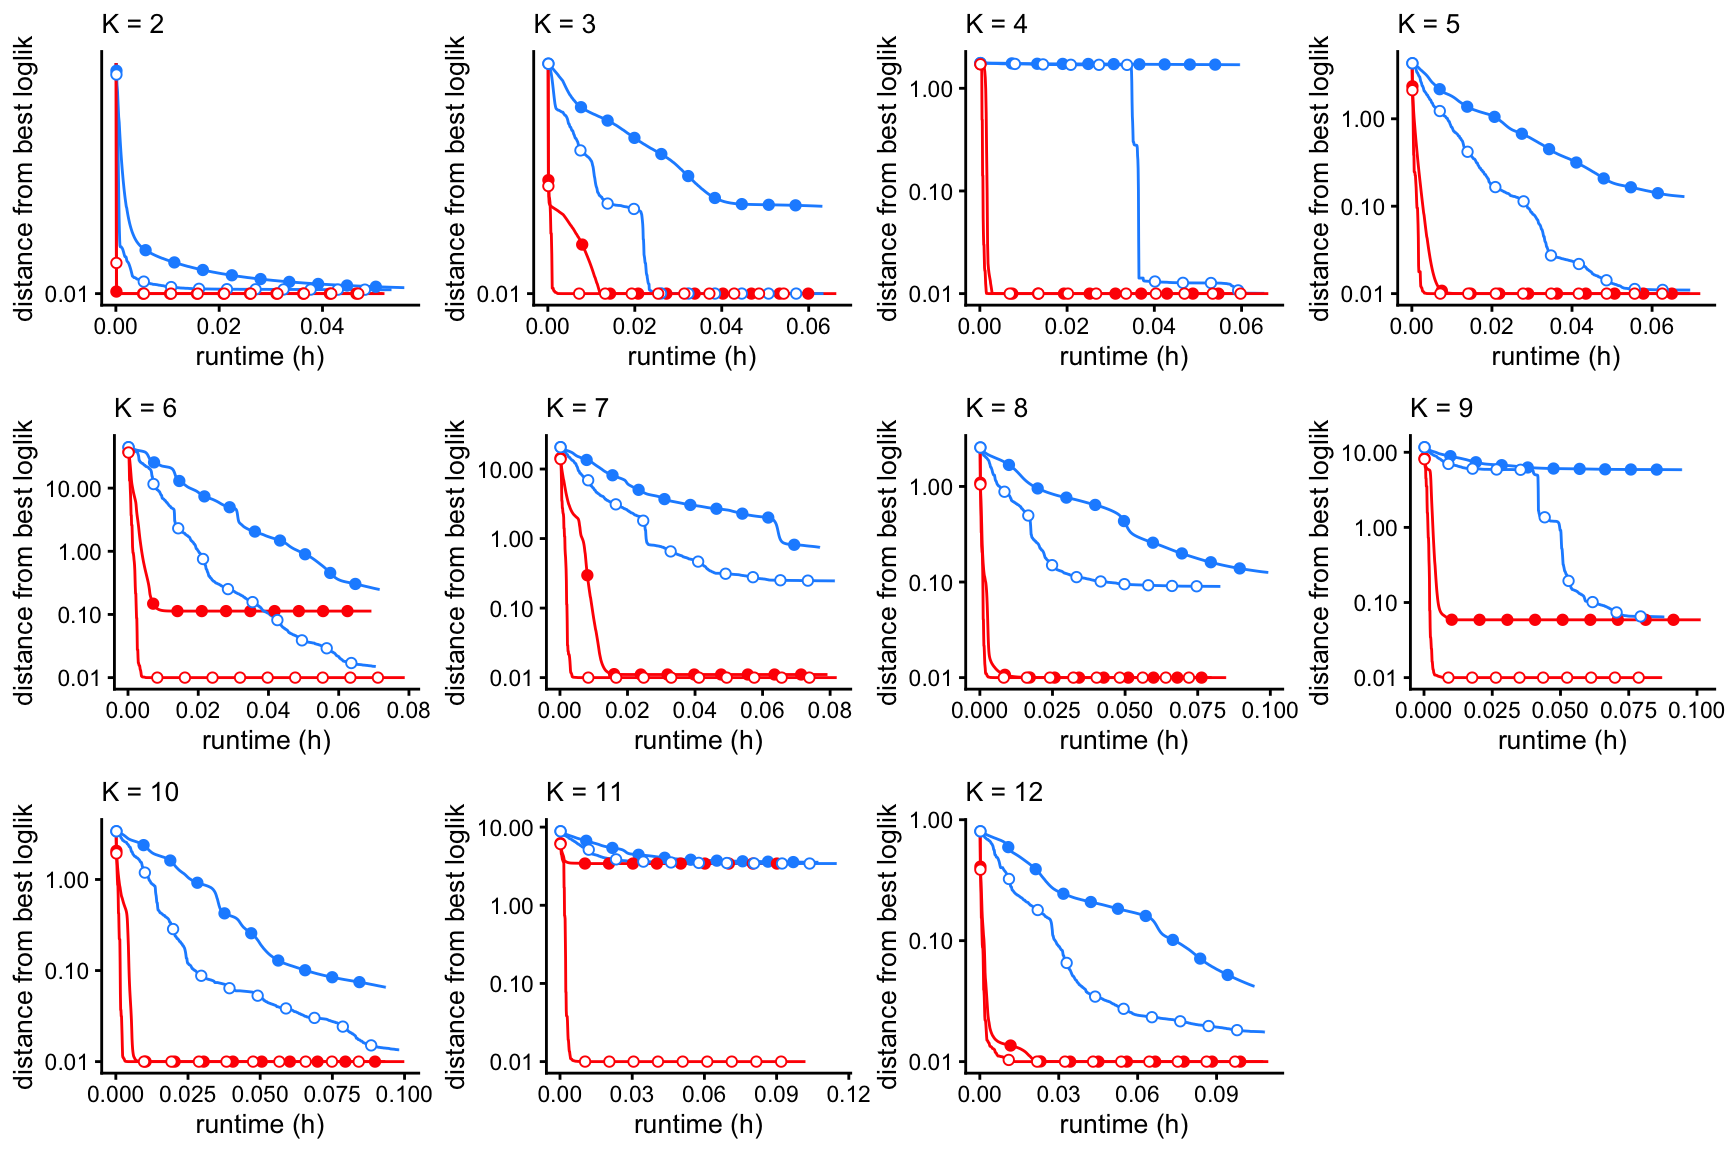
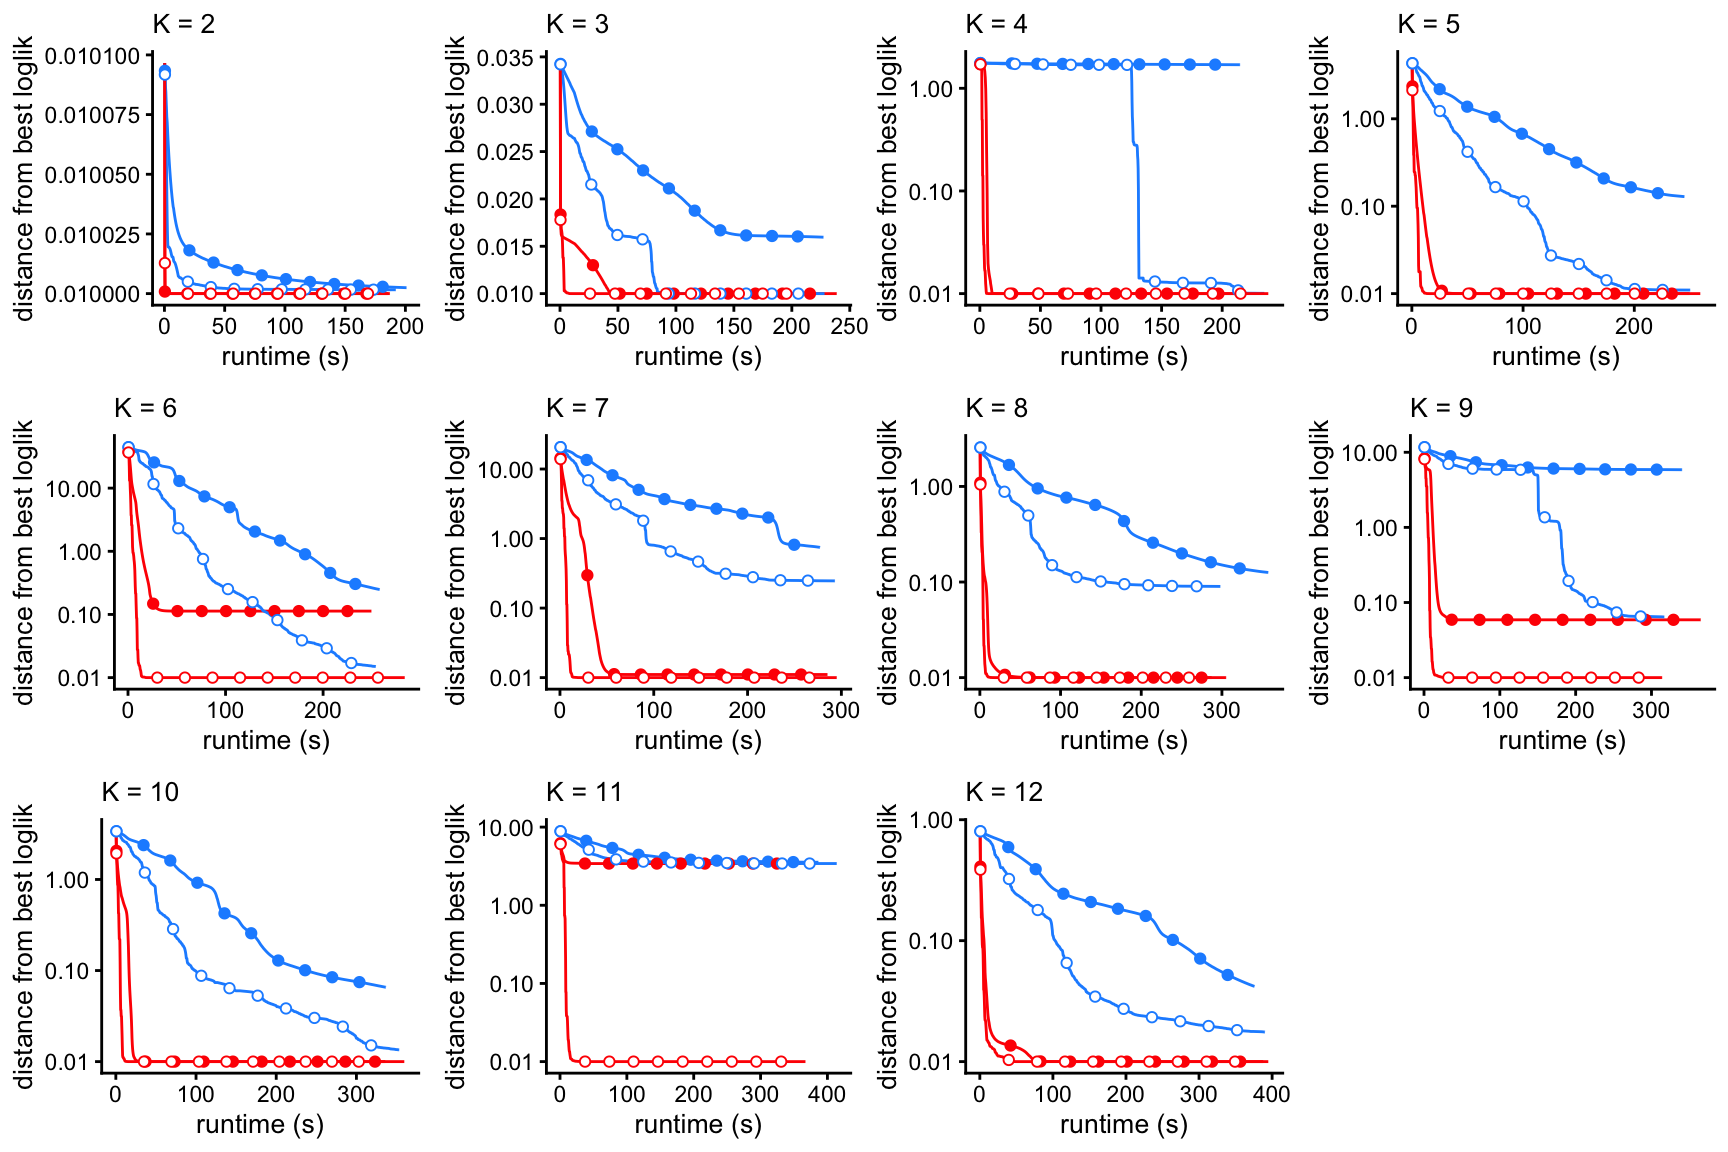
Fixed a couple of the progress plots in the assess_fits_nips analysis.

diff --git a/docs/assess_fits_nips.html b/docs/assess_fits_nips.html
@@ -414,16 +414,16 @@ This reproducible <a href="http://rmarkdown.rstudio.com">R Markdown</a> analysis
 <div class="panel panel-default">
 <div class="panel-heading">
 <p class="panel-title">
-<a data-toggle="collapse" data-parent="#workflowr-checks" href="#strongRepositoryversionstrongahrefhttpsgithubcomstephenslabfastTopicsexperimentstree424e969c2b35e4777634033a1f9d050f18d1791etargetblank424e969a"> <span class="glyphicon glyphicon-ok text-success" aria-hidden="true"></span> <strong>Repository version:</strong> <a href="https://github.com/stephenslab/fastTopics-experiments/tree/424e969c2b35e4777634033a1f9d050f18d1791e" target="_blank">424e969</a> </a>
+<a data-toggle="collapse" data-parent="#workflowr-checks" href="#strongRepositoryversionstrongahrefhttpsgithubcomstephenslabfastTopicsexperimentstree585ad64b635878efb117ba9307a844d1aee78840targetblank585ad64a"> <span class="glyphicon glyphicon-ok text-success" aria-hidden="true"></span> <strong>Repository version:</strong> <a href="https://github.com/stephenslab/fastTopics-experiments/tree/585ad64b635878efb117ba9307a844d1aee78840" target="_blank">585ad64</a> </a>
 </p>
 </div>
[2 lines of base64/hex data omitted]
 <div class="panel-body">
 <p>
 Great! You are using Git for version control. Tracking code development and connecting the code version to the results is critical for reproducibility.
 </p>
 <p>
-The results in this page were generated with repository version <a href="https://github.com/stephenslab/fastTopics-experiments/tree/424e969c2b35e4777634033a1f9d050f18d1791e" target="_blank">424e969</a>. See the <em>Past versions</em> tab to see a history of the changes made to the R Markdown and HTML files.
+The results in this page were generated with repository version <a href="https://github.com/stephenslab/fastTopics-experiments/tree/585ad64b635878efb117ba9307a844d1aee78840" target="_blank">585ad64</a>. See the <em>Past versions</em> tab to see a history of the changes made to the R Markdown and HTML files.
 </p>
 <p>
 Note that you need to be careful to ensure that all relevant files for the analysis have been committed to Git prior to generating the results (you can use <code>wflow_publish</code> or <code>wflow_git_commit</code>). workflowr only checks the R Markdown file, but you know if there are other scripts or data files that it depends on. Below is the status of the Git repository when the results were generated:
@@ -475,6 +475,40 @@ Message
 </tr>
 </thead>
 <tbody>
+<tr>
+<td>
+Rmd
+</td>
+<td>
+<a href="https://github.com/stephenslab/fastTopics-experiments/blob/585ad64b635878efb117ba9307a844d1aee78840/analysis/assess_fits_nips.Rmd" target="_blank">585ad64</a>
+</td>
+<td>
+Peter Carbonetto
+</td>
+<td>
+2021-04-07
+</td>
+<td>
+workflowr::wflow_publish(“assess_fits_nips.Rmd”)
+</td>
+</tr>
+<tr>
+<td>
+html
+</td>
+<td>
+<a href="https://rawcdn.githack.com/stephenslab/fastTopics-experiments/269a77bd395aee274d4c10c67a236a32e510824e/docs/assess_fits_nips.html" target="_blank">269a77b</a>
+</td>
+<td>
+Peter Carbonetto
+</td>
+<td>
+2021-04-07
+</td>
+<td>
+Improved progress plots in assess_fits_nips analysis.
+</td>
+</tr>
 <tr>
 <td>
 Rmd
@@ -562,11 +596,47 @@ fits &lt;- lapply(fits,poisson2multinom)</code></pre>
 <pre class="r"><code>plot_loglik_vs_rank(fits) +
   theme_cowplot(font_size = 12)</code></pre>
 <p><img src="figure/assess_fits_nips.Rmd/plot-loglik-vs-k-1.png" width="480" style="display: block; margin: auto;" /></p>
+<p>
+<button type="button" class="btn btn-default btn-xs btn-workflowr btn-workflowr-fig" data-toggle="collapse" data-target="#fig-plot-loglik-vs-k-1">
+Past versions of plot-loglik-vs-k-1.png
+</button>
+</p>
+<div id="fig-plot-loglik-vs-k-1" class="collapse">
+<div class="table-responsive">
+<table class="table table-condensed table-hover">
+<thead>
+<tr>
+<th>
+Version
+</th>
+<th>
+Author
+</th>
+<th>
+Date
+</th>
+</tr>
+</thead>
+<tbody>
+<tr>
+<td>
+<a href="https://github.com/stephenslab/fastTopics-experiments/blob/269a77bd395aee274d4c10c67a236a32e510824e/docs/figure/assess_fits_nips.Rmd/plot-loglik-vs-k-1.png" target="_blank">269a77b</a>
+</td>
+<td>
+Peter Carbonetto
+</td>
+<td>
+2021-04-07
+</td>
+</tr>
+</tbody>
+</table>
+</div>
+</div>
 <p>The next set of plots shows the improvement in the fit over time, for <span class="math inline">\(K\)</span> from 2 to 12, using EM or SCD, with and without extrapolation. The quality of the fit is measured by the log-likelihood relative to the best log-likelihood that was identified among all methods compared.</p>
 <pre class="r"><code>prune_prefit_iters &lt;- function (fit) {
   n &lt;- nrow(fit$progress)
   fit$progress &lt;- fit$progress[1000:n,]
-  fit$progress &lt;- transform(fit$progress,timing = timing/60^2)
   return(fit)
 }
 create_progress_plot &lt;- function (fits, k, y = &quot;loglik&quot;)
@@ -576,18 +646,57 @@ create_progress_plot &lt;- function (fits, k, y = &quot;loglik&quot;)
   scale_y_continuous(trans = &quot;log10&quot;,breaks = 10^seq(-8,8)) +
   guides(color = &quot;none&quot;,fill = &quot;none&quot;,size = &quot;none&quot;,
          shape = &quot;none&quot;,linetype = &quot;none&quot;) +
-  labs(x = &quot;runtime (h)&quot;,title = paste(&quot;K =&quot;,k)) +
+  labs(x = &quot;runtime (s)&quot;,title = paste(&quot;K =&quot;,k)) +
   theme_cowplot(font_size = 10) +
   theme(plot.title = element_text(size = 10,face = &quot;plain&quot;))
 fits &lt;- lapply(fits,prune_prefit_iters)
 p &lt;- vector(&quot;list&quot;,12)
 for (i in 2:12)
   p[[i]] &lt;- create_progress_plot(fits[dat$k == i],i)
+p[[2]] &lt;- p[[2]] + scale_y_continuous()
+p[[3]] &lt;- p[[3]] + scale_y_continuous()
 plot_grid(p[[2]],p[[3]],p[[4]],p[[5]],
           p[[6]],p[[7]],p[[8]],p[[9]],
           p[[10]],p[[11]],p[[12]],
           nrow = 3,ncol = 4)</code></pre>
 <p><img src="figure/assess_fits_nips.Rmd/plot-loglik-1.png" width="864" style="display: block; margin: auto;" /></p>
+<p>
+<button type="button" class="btn btn-default btn-xs btn-workflowr btn-workflowr-fig" data-toggle="collapse" data-target="#fig-plot-loglik-1">
+Past versions of plot-loglik-1.png
+</button>
+</p>
+<div id="fig-plot-loglik-1" class="collapse">
+<div class="table-responsive">
+<table class="table table-condensed table-hover">
+<thead>
+<tr>
+<th>
+Version
+</th>
+<th>
+Author
+</th>
+<th>
+Date
+</th>
+</tr>
+</thead>
+<tbody>
+<tr>
+<td>
+<a href="https://github.com/stephenslab/fastTopics-experiments/blob/269a77bd395aee274d4c10c67a236a32e510824e/docs/figure/assess_fits_nips.Rmd/plot-loglik-1.png" target="_blank">269a77b</a>
+</td>
+<td>
+Peter Carbonetto
+</td>
+<td>
+2021-04-07
+</td>
+</tr>
+</tbody>
+</table>
+</div>
+</div>
 <p>These plots shows the evolution of the KKT residuals over time.</p>
 <pre class="r"><code>for (i in 2:12)
   p[[i]] &lt;- create_progress_plot(fits[dat$k == i],i,y = &quot;res&quot;)
@@ -596,6 +705,43 @@ plot_grid(p[[2]],p[[3]],p[[4]],p[[5]],
           p[[10]],p[[11]],p[[12]],
           nrow = 3,ncol = 4)</code></pre>
 <p><img src="figure/assess_fits_nips.Rmd/plot-res-1.png" width="864" style="display: block; margin: auto;" /></p>
+<p>
+<button type="button" class="btn btn-default btn-xs btn-workflowr btn-workflowr-fig" data-toggle="collapse" data-target="#fig-plot-res-1">
+Past versions of plot-res-1.png
+</button>
+</p>
+<div id="fig-plot-res-1" class="collapse">
+<div class="table-responsive">
+<table class="table table-condensed table-hover">
+<thead>
+<tr>
+<th>
+Version
+</th>
+<th>
+Author
+</th>
+<th>
+Date
+</th>
+</tr>
+</thead>
+<tbody>
+<tr>
+<td>
+<a href="https://github.com/stephenslab/fastTopics-experiments/blob/269a77bd395aee274d4c10c67a236a32e510824e/docs/figure/assess_fits_nips.Rmd/plot-res-1.png" target="_blank">269a77b</a>
+</td>
+<td>
+Peter Carbonetto
+</td>
+<td>
+2021-04-07
+</td>
+</tr>
+</tbody>
+</table>
+</div>
+</div>
 <br>
 <p>
 <button type="button" class="btn btn-default btn-workflowr btn-workflowr-sessioninfo" data-toggle="collapse" data-target="#workflowr-sessioninfo" style="display: block;">
